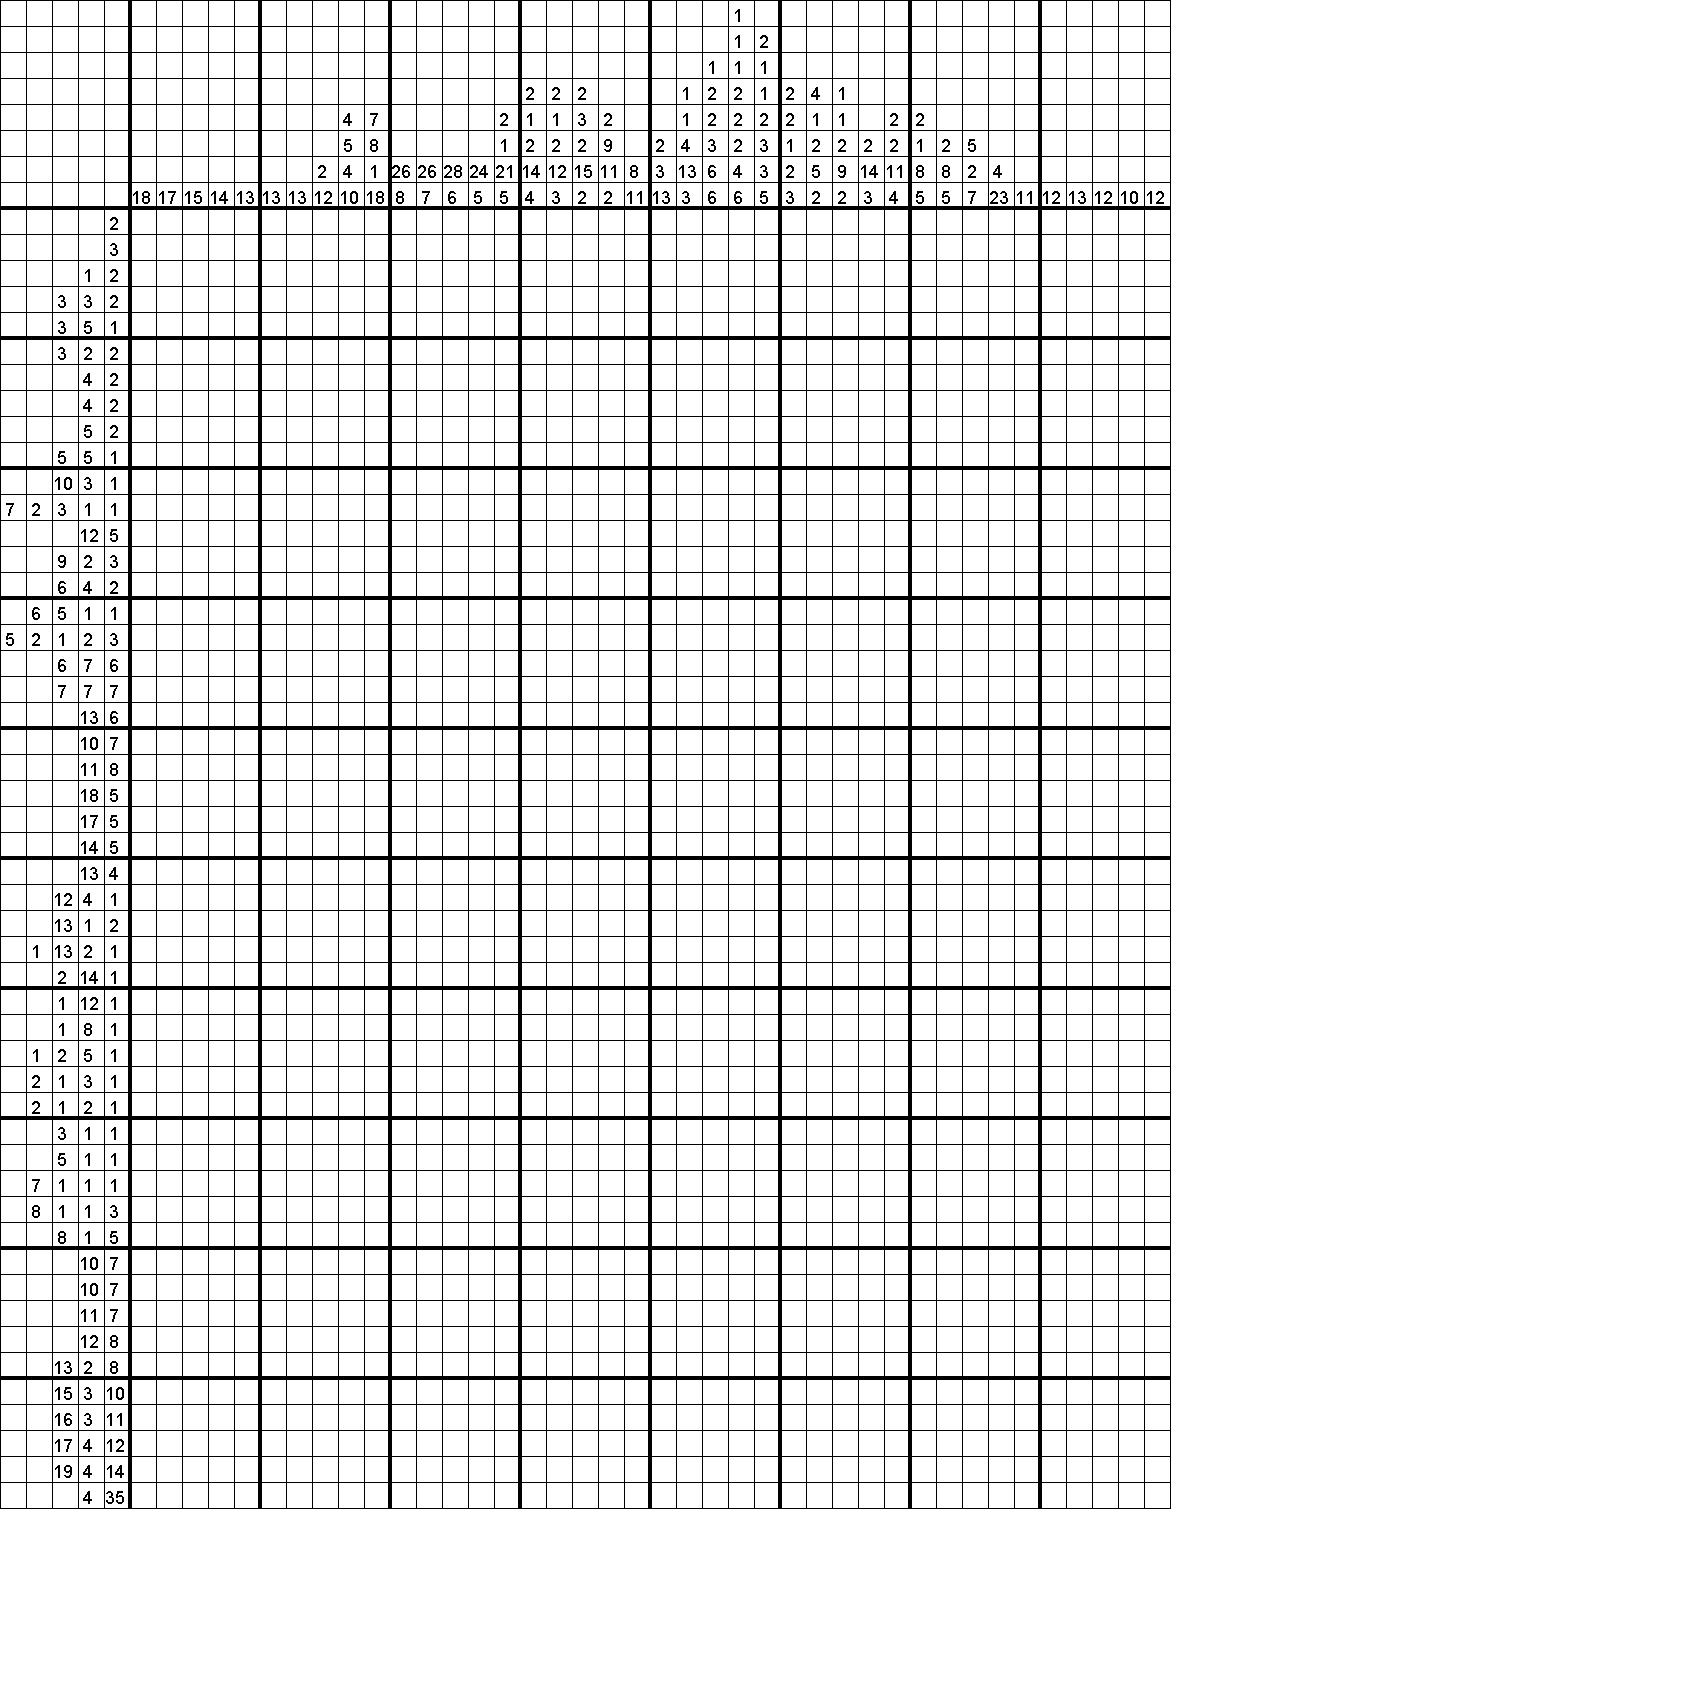
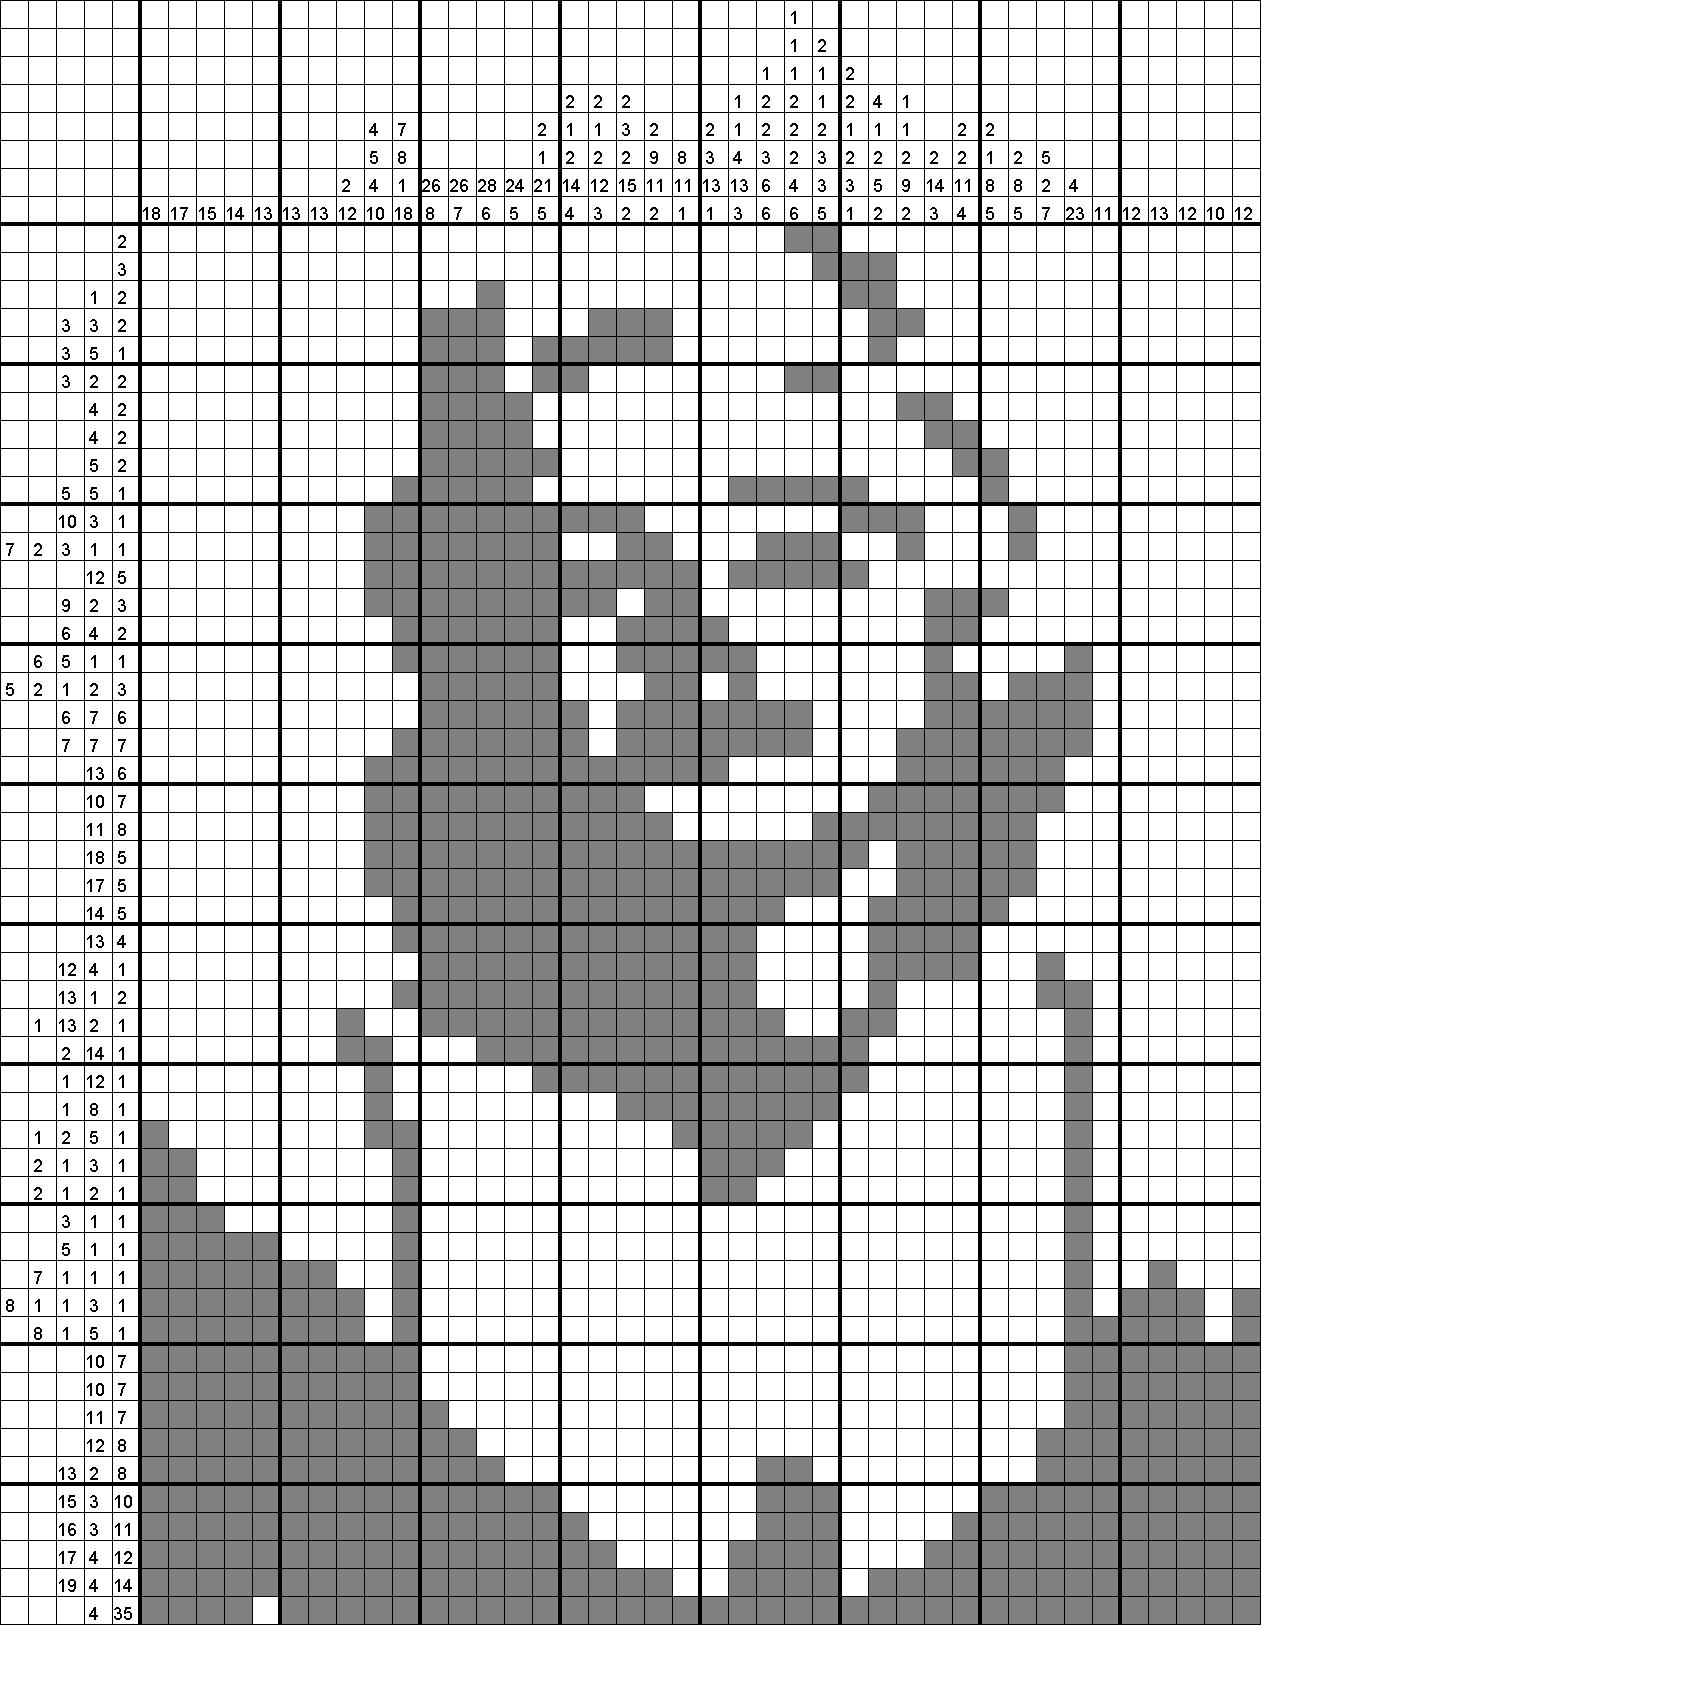
ИСПРАВЛЕНА ОШИБКА С ПОСЛЕДНИМ РЯДОМ  (УСЛОВИЕ > 0)

diff --git a/src/main/java/com/home/JapCross.java b/src/main/java/com/home/JapCross.java
@@ -55,7 +55,7 @@ public class JapCross {
         graphics.fillRect(0, 0, bufferedImage.getWidth(), bufferedImage.getHeight());
         graphics.setFont(new Font("TimesRoman", Font.PLAIN, 18));
 
-        int a = 26;
+        int a = 28;
         int moveX = 0;
         int moveY = 0;
 
@@ -90,8 +90,8 @@ public class JapCross {
 
         for (int i = 0; i < matrix.size(); ++i) {
             for (int j = 0; j < matrix.get(i).size(); ++j) {
-//                graphics.setColor(drawer.getColor(matrix.get(i).get(j)));
-                graphics.setColor(Color.WHITE);
+                graphics.setColor(drawer.getColor(matrix.get(i).get(j)));
+//                graphics.setColor(Color.WHITE);
 
                 graphics.fillRect(moveX + i * a, moveY + j * a, a, a);
 
@@ -219,7 +219,7 @@ public class JapCross {
                 }
             }
 
-            if (count > 1) {
+            if (count > 0) {
                 verticalCounter.get(i).add(new RectangleValue(startColor, count));
             }
         }
